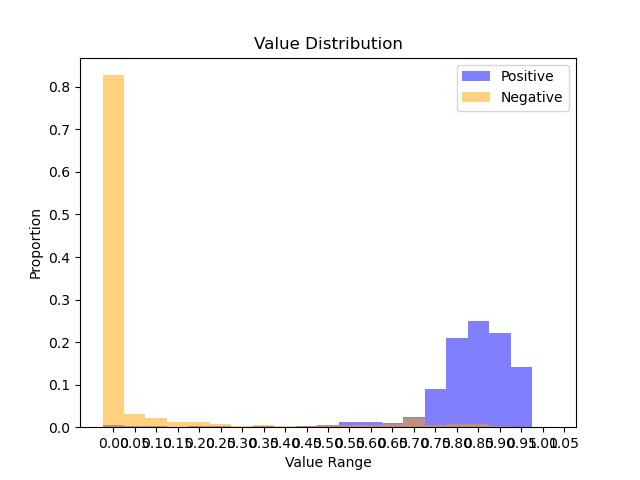
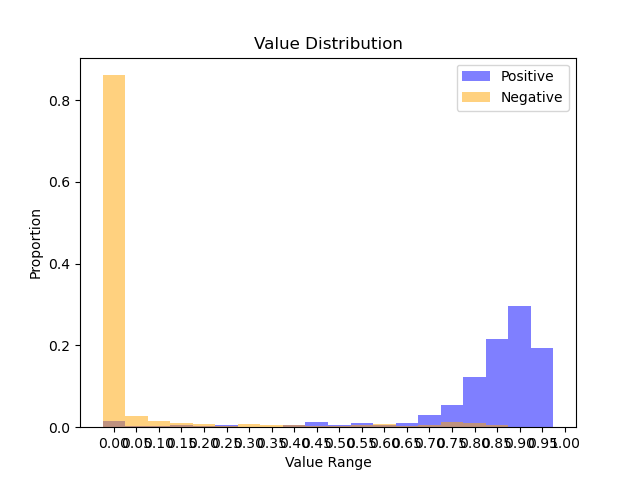
update

diff --git a/test.py b/test.py
@@ -48,9 +48,7 @@ img_transforms=transforms.Compose([
 begin=time.time()
 predict=[]
 labels=[]
-mask=Image.open('./mask.png').resize((800,600),resample=Image.Resampling.BILINEAR)
-mask=np.array(mask)
-mask[mask>0]=1
+
 new_split_list=[]
 for image_name  in split_list:
     if data_dict[image_name]['stage']>0:
@@ -61,8 +59,13 @@ for image_name  in split_list:
         new_split_list.append(image_name)
 val_list_postive=[]
 val_list_negtive=[]
+val_list=[]
 with torch.no_grad():
     for image_name in new_split_list:
+        mask=Image.open(data_dict[image_name]['mask_path']).resize((800,600),resample=Image.Resampling.BILINEAR)
+        mask=np.array(mask)
+        mask[mask>0]=1
+    
         data=data_dict[image_name]
         img = Image.open(data['enhanced_path'])
         img_tensor = img_transforms(img)
@@ -73,7 +76,7 @@ with torch.no_grad():
         
         output_img=torch.sigmoid(output_img)
         max_val=float(torch.max(output_img))
-        
+        val_list.append(max_val)
         output_img=F.interpolate(output_img,(600,800), mode='nearest')
         output_img=output_img*mask
         
@@ -100,7 +103,7 @@ with torch.no_grad():
                 gt=transforms.Resize((600,800))(gt)
                 gt=np.array(gt)
                 gt[gt>0]=1
-                visual_mask(data['image_path'],output_img,str(int(torch.sum(output_img))),
+                visual_mask(data['image_path'],gt,str(int(torch.sum(output_img))),
                             save_path=os.path.join(visual_dir,'1',image_name[:-4]+'_point.jpg'))
                 visual_mask(data['image_path'],output_img,str(int(torch.sum(output_img))),
                             save_path=os.path.join(visual_dir,'1',image_name))
@@ -109,6 +112,7 @@ with torch.no_grad():
                 #               save_path= os.path.join(visual_dir,'1',image_name[:-4]+'_point.jpg'))
         labels.append(tar)
         predict.append(pred)
+
 acc = accuracy_score(labels, predict)
 auc = roc_auc_score(labels, predict)
 recall=recall_score(labels,predict)
@@ -136,4 +140,30 @@ plt.legend()
 
 # Save the figure
 plt.savefig('./save.png')
-plt.show()
+val_list=np.array(val_list)
+acc_list=[]
+auc_list=[]
+recall_list=[]
+
+for judge_val in np.arange(0.4, 0.51, 0.01):
+    pred_label=val_list>judge_val
+    acc_list.append(accuracy_score(labels,pred_label))
+    auc_list.append(roc_auc_score(labels,pred_label))
+    recall_list.append(recall_score(labels,pred_label))
+    
+# Create range for x-axis
+x_range = np.arange(0.4, 0.51, 0.01)
+
+# Plotting
+plt.figure(figsize=(10, 6))
+plt.plot(x_range, acc_list, label='Accuracy', color='blue')
+plt.plot(x_range, auc_list, label='AUC', color='green')
+plt.plot(x_range, recall_list, label='Recall', color='red')
+
+plt.xlabel('Judgement Value')
+plt.ylabel('Score')
+plt.title('Metric Scores at Different Judgement Values')
+plt.legend()
+plt.grid(True)
+plt.savefig('./save_line.png')
+

diff --git a/generate_mask.py b/generate_mask.py
@@ -1,0 +1,22 @@
+import os,json
+from PIL import Image
+import numpy as np
+data_path='../autodl-tmp/dataset_ROP'
+with open(os.path.join(data_path,'annotations.json'),'r') as f:
+    data_dict=json.load(f)
+os.makedirs(os.path.join(data_path,'mask'))
+
+def generate_mask(image_path,save_path):
+    img=Image.open(image_path)
+    img=np.array(img)/255
+    img=np.sum(img,axis=-1)
+    mask=np.where(img<0.26,0,1)
+    mask_img = Image.fromarray(np.uint8(mask * 255), 'L')
+    mask_img.save(save_path)
+for image_name in data_dict:
+    save_mask_path=os.path.join(data_path,'mask',image_name)
+    generate_mask(data_dict[image_name]['image_path'],
+                  save_mask_path)
+    data_dict[image_name]['mask_path']=save_mask_path
+with open(os.path.join(data_path,'annotations.json'),'w') as f:
+    json.dump(data_dict,f)

diff --git a/config.py b/config.py
@@ -5,7 +5,7 @@ def get_config():
     # cleansing
     parser.add_argument('--data_path', type=str, default='../autodl-tmp/dataset_ROP',
                         help='Path to the target folder to store the processed datasets.')
-    parser.add_argument('--generate_ridge_diffusion', type=bool, default=True,
+    parser.add_argument('--generate_ridge_diffusion', type=bool, default=False,
                         help='if generate the ridge cooridinate from json src.')
     
     # split

diff --git a/train.py b/train.py
@@ -97,7 +97,7 @@ for epoch in range(last_epoch, total_epoches):
 model.load_state_dict(
     torch.load(os.path.join(args.save_dir,f"{args.split_name}_{args.configs['save_name']}"))
 )
-test_loss,metric = val_epoch(model, test_loader, criterion, device,metric)
+test_loss,metric = val_epoch(model, test_loader, criterion, device,metric,mask)
 print(metric)
 key=f'{str(os.path.basename(args.cfg)[:-5])}'
 metric._store(key,args.split_name,save_epoch)
